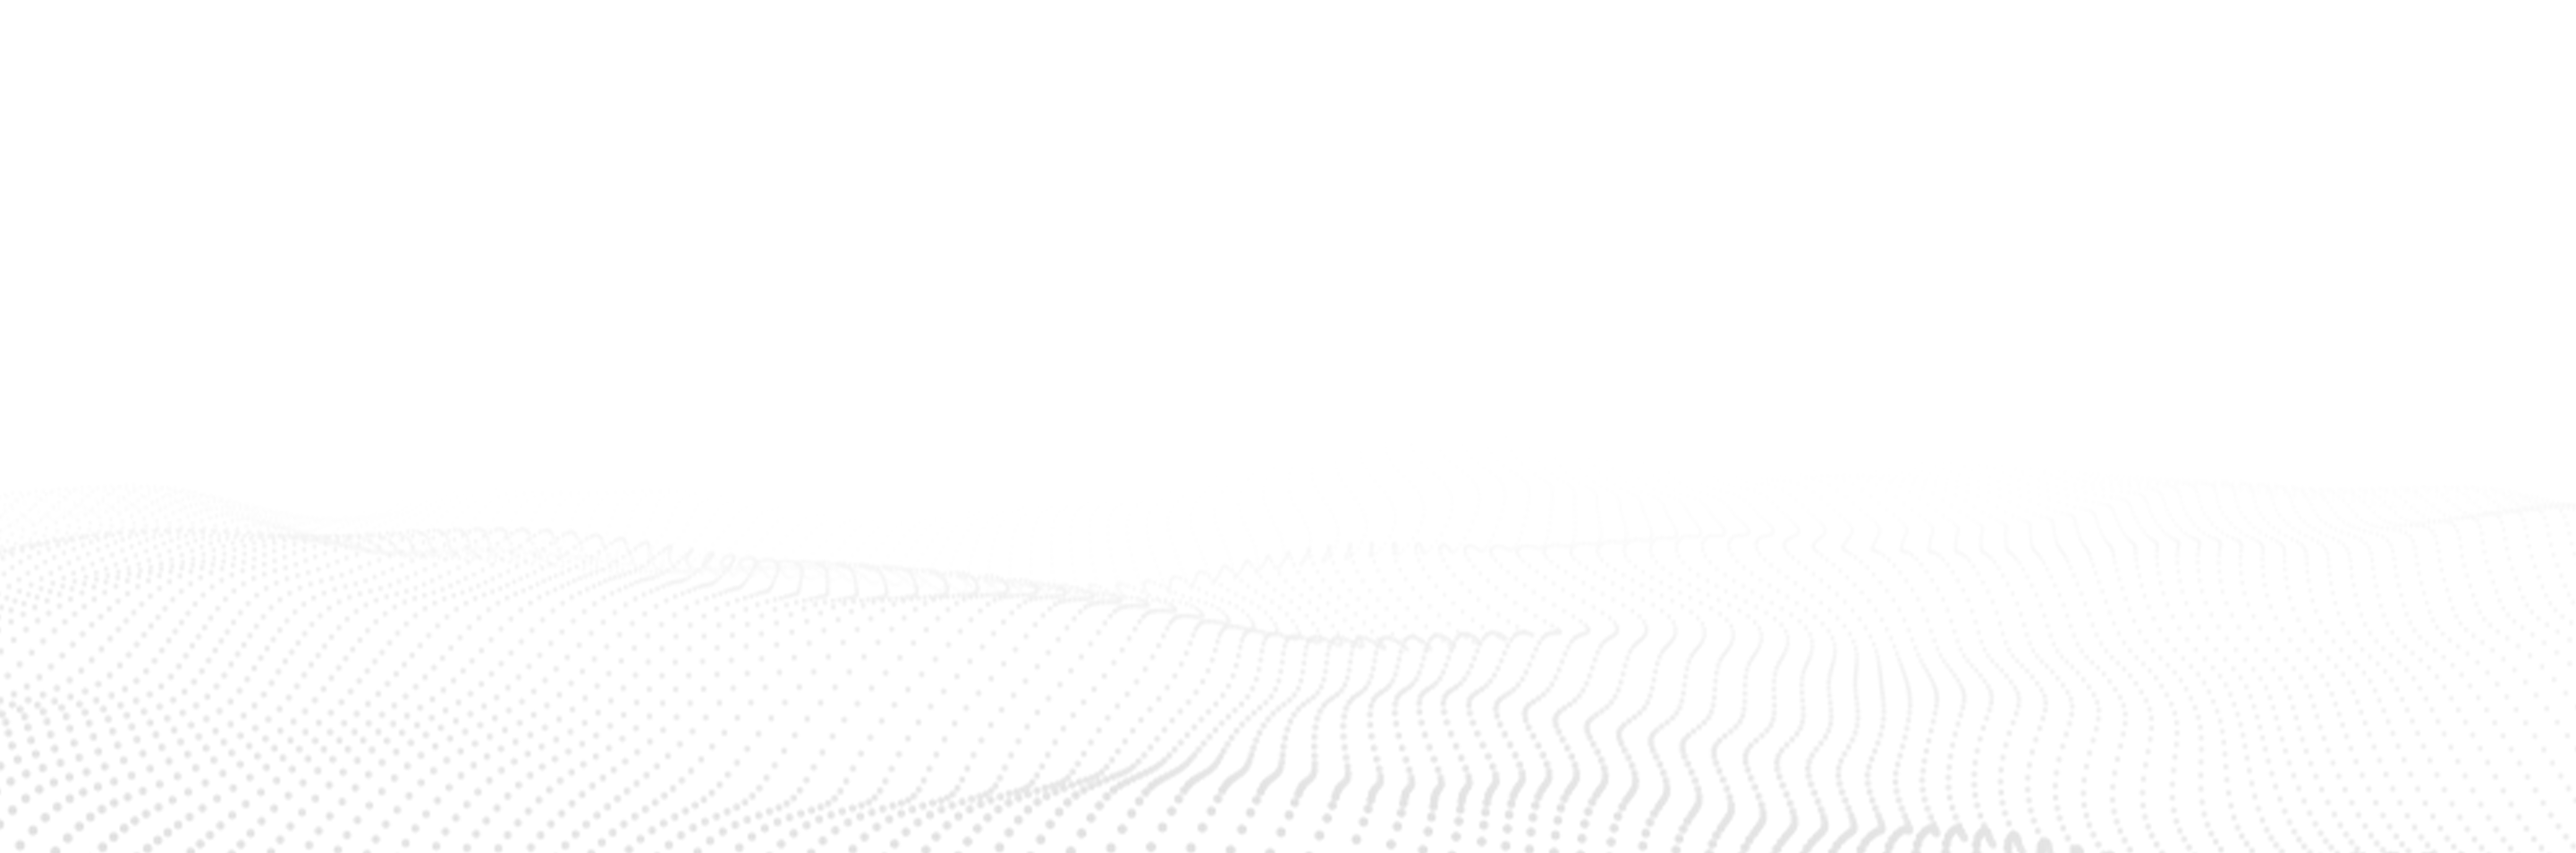
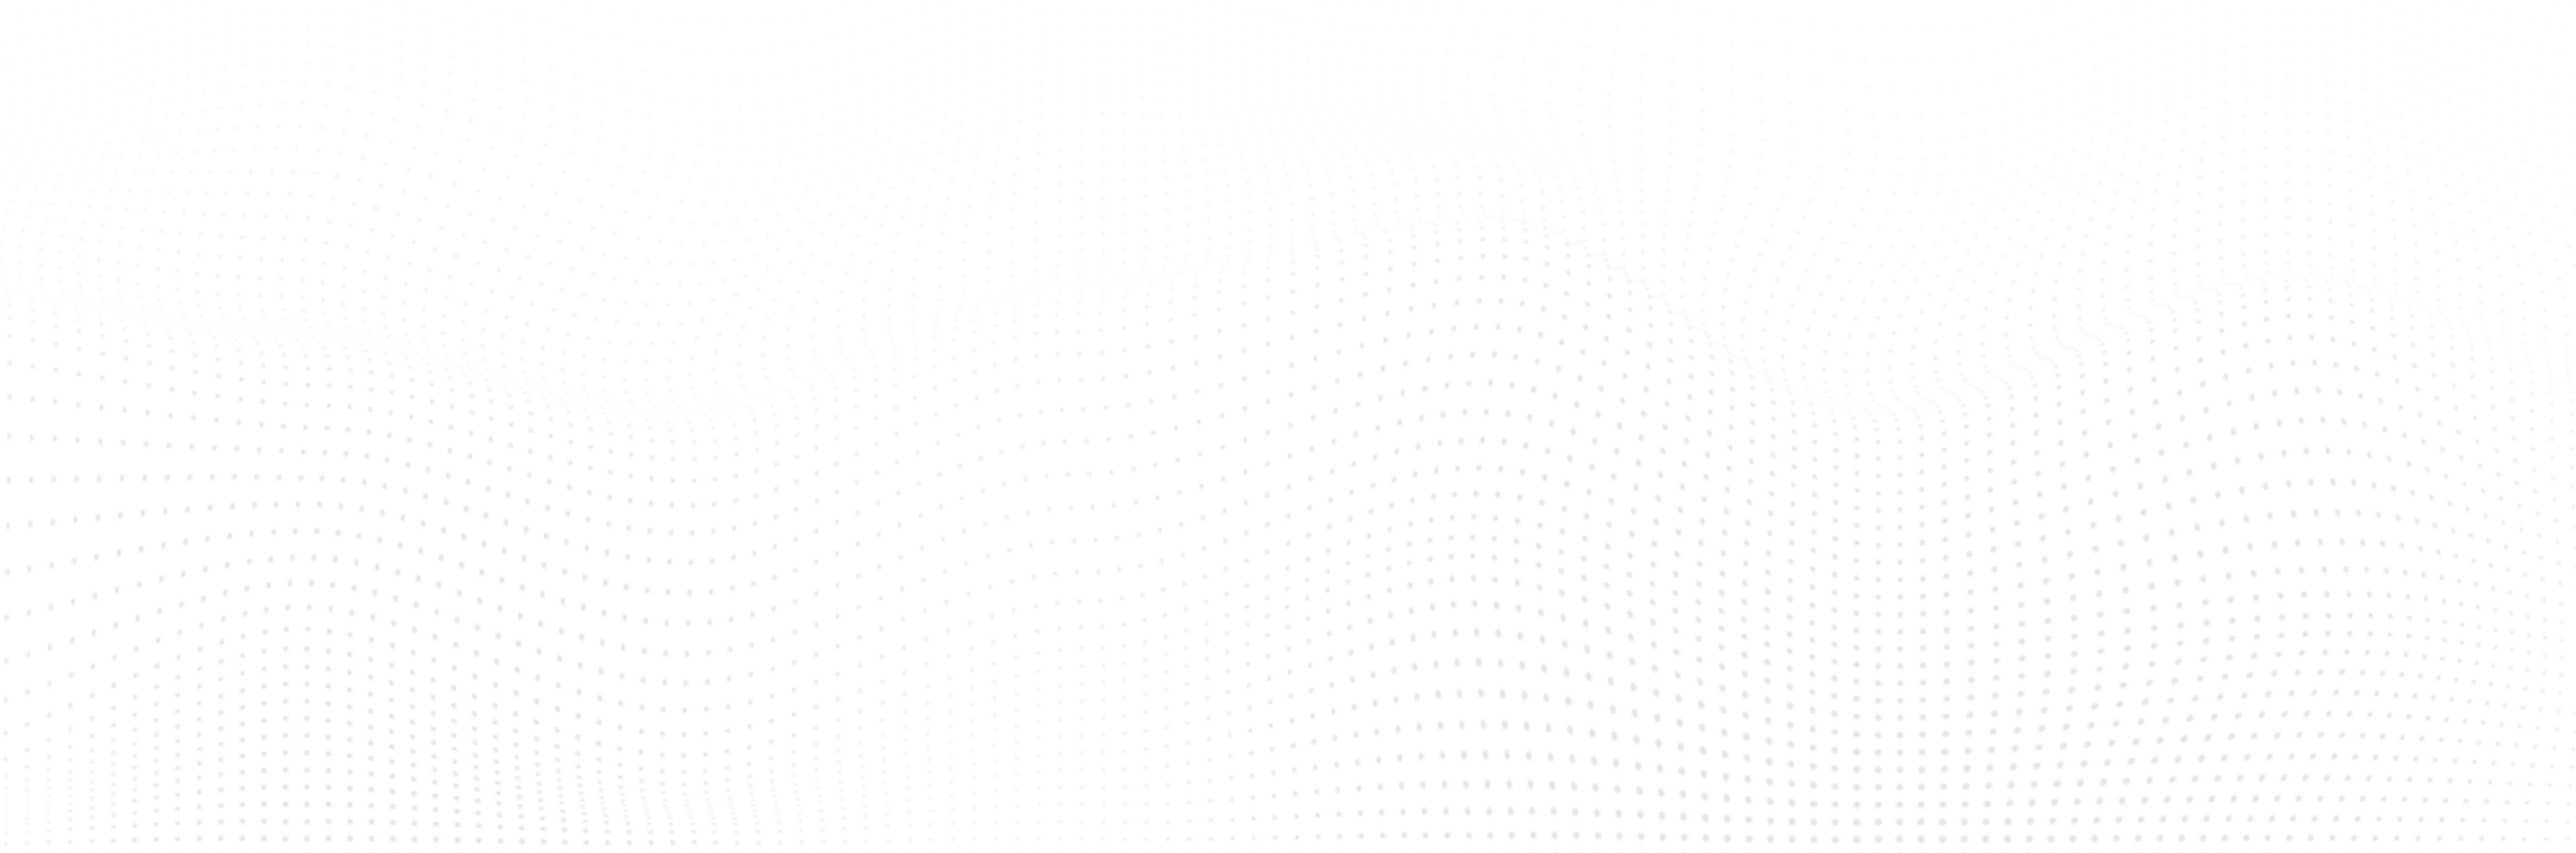
update

Changed region(s): [[0.4062, 0.9119, 0.625, 0.9423], [0.6875, 0.9727, 0.8125, 1.0], [0.6562, 0.9423, 0.6875, 0.9727]]

diff --git a/index.html b/index.html
@@ -52,7 +52,7 @@
     
           <div class="col-md-3 text-end">
             <!-- <button type="button" class="btn btn-outline-primary me-2">Login</button> -->
-            <a href="mailto:iniyavaniniya3@gmail.com" type="button" class="btn custom-btn">Say Hello 💬</a>
+            <a href="mailto:iniyavandesigner@outlook.com" type="button" class="btn custom-btn">Say Hello 💬</a>
           </div>
         </header>
       </div>

diff --git a/css/custom.css b/css/custom.css
@@ -12,7 +12,7 @@
 
 .image-back{
     width: 100%;
-    height: 500px;
+    height: 650px;
     position: absolute;
     z-index: -1;
 }
@@ -31,7 +31,7 @@
     position: absolute;
     z-index: -1;
     width: 100%;
-    height: 550px;
+    height: 500px;
 
 }
 
@@ -40,6 +40,7 @@
         position: absolute;
         z-index: -1;
         width: 100%;
+        overflow: hidden;
         height: 700px;
     }
   }
